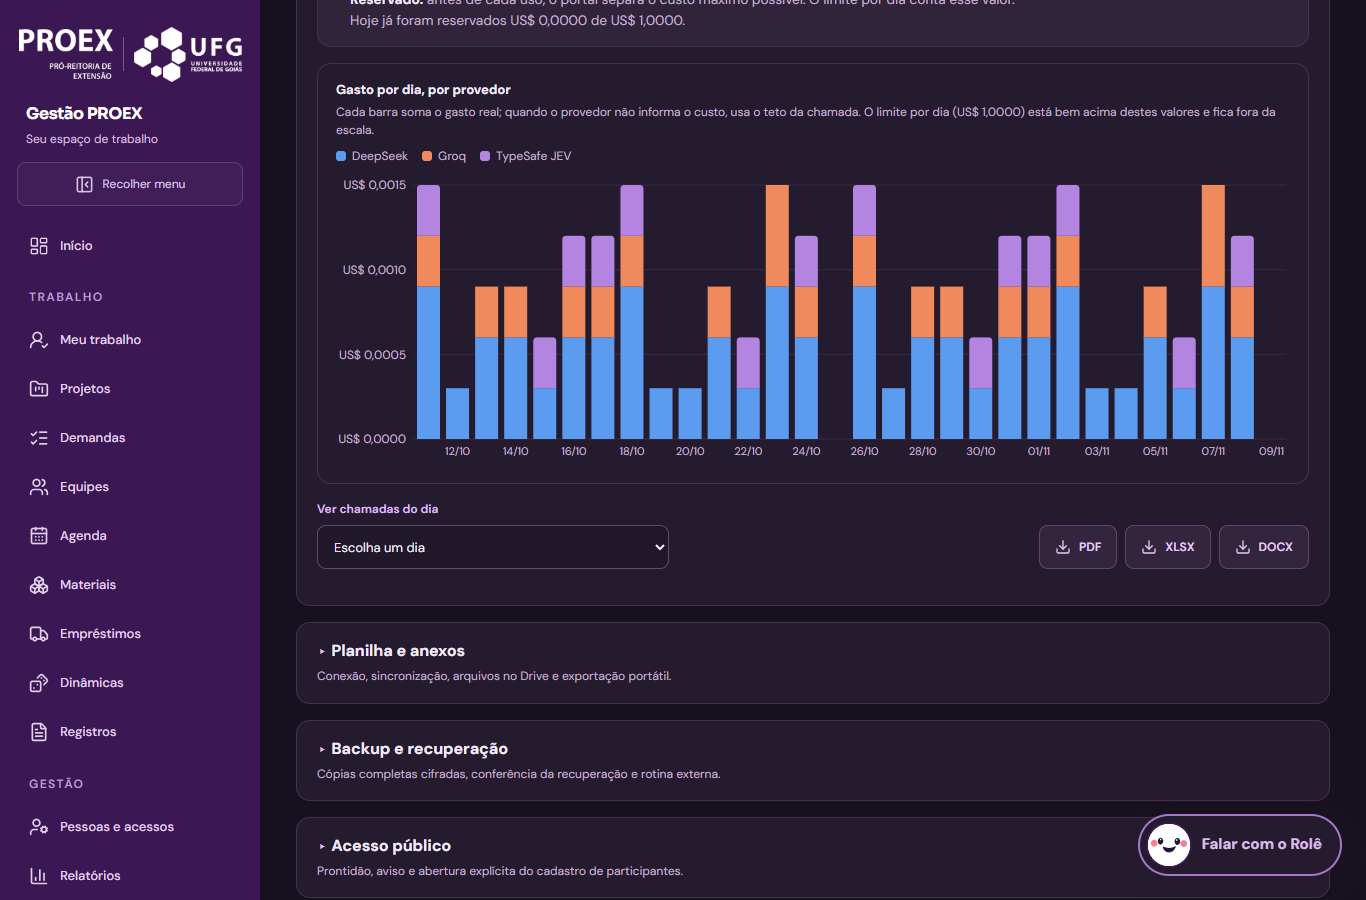
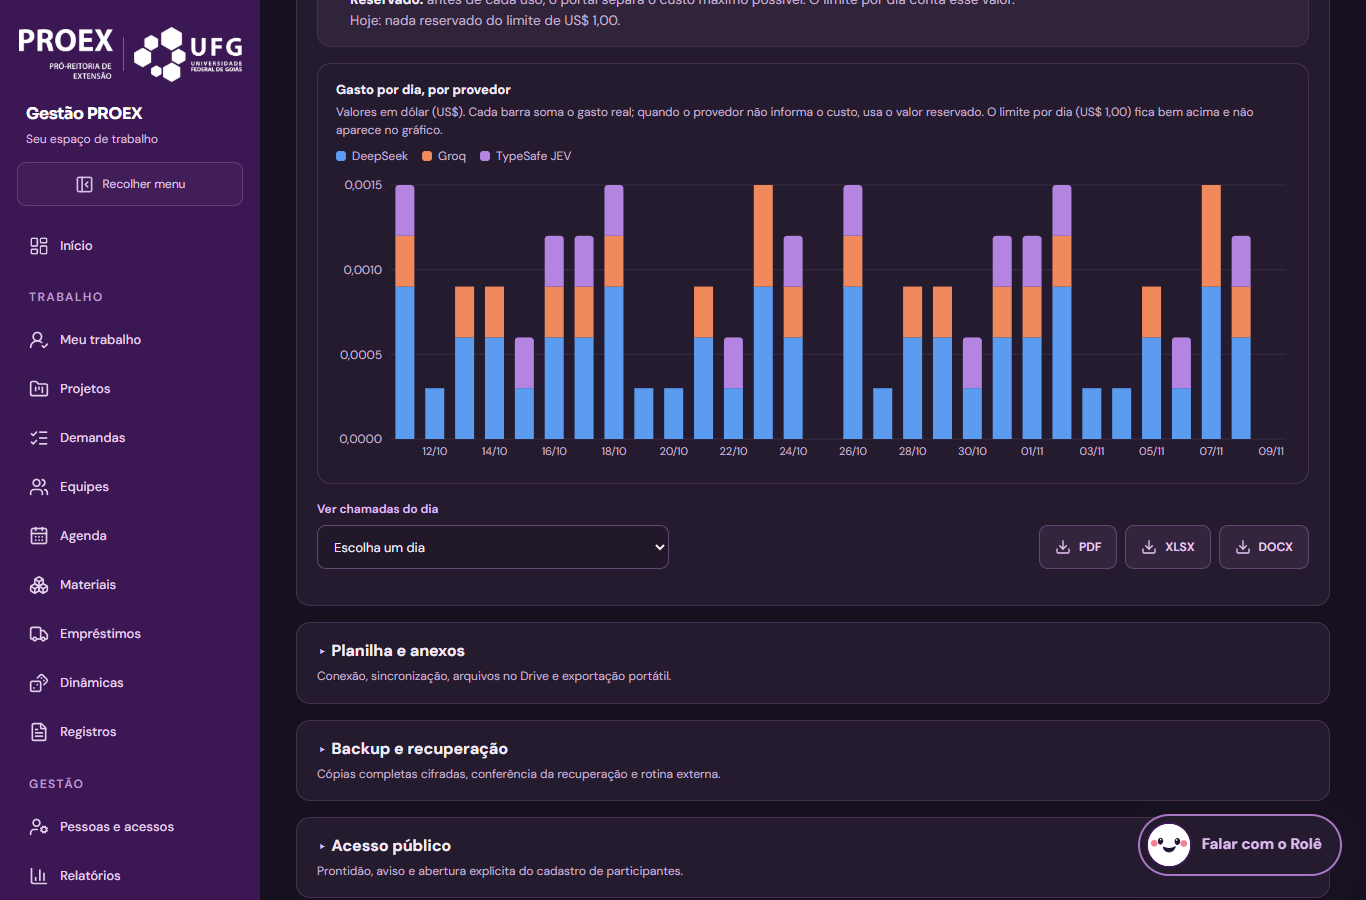
fix(portal): readable spending chart on phones and final copy

diff --git a/apps/proex-portal/components/portal/ai-spending-panel.tsx b/apps/proex-portal/components/portal/ai-spending-panel.tsx
@@ -180,7 +180,7 @@ export default function AiSpendingPanel({ organizationId }: { organizationId: st
 
     {data && <>
       <dl className={styles.metrics}>
-        <div><dt>Gasto real hoje</dt><dd><Money micros={data.today.realUsdMicros} zero="Nada gasto hoje"/></dd></div>
+        <div><dt>Gasto real hoje</dt><dd><Money micros={data.today.realUsdMicros} zero="Nada gasto"/></dd></div>
         <div><dt>Limite por dia</dt><dd>{usd2.format(data.dailyLimitUsdMicros / 1_000_000)}</dd></div>
         <div><dt>Gasto real no período</dt><dd><Money micros={data.totals.realUsdMicros} zero="Nada gasto"/></dd></div>
         <div><dt>Reservado no período (máximo possível)</dt><dd><Money micros={data.totals.reservedUsdMicros} zero="Nada reservado"/></dd></div>
@@ -188,7 +188,7 @@ export default function AiSpendingPanel({ organizationId }: { organizationId: st
       <ul className={styles.glossary}>
         <li><strong>Gasto real:</strong> o custo que o provedor informou. Algumas funções ainda não informam o custo.</li>
         <li><strong>Reservado:</strong> antes de cada uso, o portal separa o custo máximo possível. O limite por dia conta esse valor.</li>
-        <li>Hoje já foram reservados {formatUsdMicros(data.today.reservedUsdMicros)} de {formatUsdMicros(data.dailyLimitUsdMicros)}.</li>
+        <li>{data.today.reservedUsdMicros ? `Hoje: ${data.today.reservedUsdMicros < 10_000 ? 'menos de US$ 0,01' : usd2.format(data.today.reservedUsdMicros / 1_000_000)} reservados do limite de ${usd2.format(data.dailyLimitUsdMicros / 1_000_000)}.` : `Hoje: nada reservado do limite de ${usd2.format(data.dailyLimitUsdMicros / 1_000_000)}.`}</li>
       </ul>
       {data.partial && <p className={styles.warning} role="note">Há chamadas demais neste período; os números mostram só uma parte. Escolha um período menor.</p>}
 
@@ -196,17 +196,17 @@ export default function AiSpendingPanel({ organizationId }: { organizationId: st
         <figure className={styles.chart}>
           <figcaption>
             <strong>Gasto por dia, {view === 'provider' ? 'por provedor' : 'por função'}</strong>
-            <small>Cada barra soma o gasto real; quando o provedor não informa o custo, usa o teto da chamada. {showLimit ? 'A linha tracejada é o limite por dia.' : `O limite por dia (${usd2.format(data.dailyLimitUsdMicros / 1_000_000)}) está bem acima destes valores e fica fora da escala.`}</small>
+            <small>Valores em dólar (US$). Cada barra soma o gasto real; quando o provedor não informa o custo, usa o valor reservado. {showLimit ? 'A linha tracejada é o limite por dia.' : `O limite por dia (${usd2.format(data.dailyLimitUsdMicros / 1_000_000)}) fica bem acima e não aparece no gráfico.`}</small>
           </figcaption>
           <ul className={styles.legend} aria-label="Legenda">
             {usedKeys.map(key => <li key={key}><i style={{ background: `var(--as-${keys.indexOf(key) + 1})` }} />{names[key] ?? key}</li>)}
           </ul>
           <div className={styles.chartArea} role="img" aria-label={`Gráfico de barras com o gasto de ${data.days.length} dias. Use a lista abaixo para abrir as chamadas de um dia.`}>
             <ResponsiveContainer width="100%" height="100%">
-              <BarChart data={chart} margin={{ top: 12, right: 8, bottom: 4, left: 4 }} barCategoryGap={period === 90 ? 1 : 3}>
+              <BarChart data={chart} margin={{ top: 12, right: 8, bottom: 4, left: 4 }} barCategoryGap={period === 90 ? '8%' : '18%'}>
                 <CartesianGrid vertical={false} stroke="var(--as-grid)" />
                 <XAxis dataKey="day" tickFormatter={shortDay} tick={{ fill: 'var(--as-axis)', fontSize: 11 }} axisLine={false} tickLine={false} minTickGap={14} />
-                <YAxis width={78} tick={{ fill: 'var(--as-axis)', fontSize: 12 }} axisLine={false} tickLine={false} ticks={axis.ticks} domain={[0, axis.ticks[axis.ticks.length - 1]]} tickFormatter={(value: number) => new Intl.NumberFormat('pt-BR', { style: 'currency', currency: 'USD', minimumFractionDigits: axis.digits, maximumFractionDigits: axis.digits }).format(value)} />
+                <YAxis width={54} tick={{ fill: 'var(--as-axis)', fontSize: 12 }} axisLine={false} tickLine={false} ticks={axis.ticks} domain={[0, axis.ticks[axis.ticks.length - 1]]} tickFormatter={(value: number) => value.toLocaleString('pt-BR', { minimumFractionDigits: axis.digits, maximumFractionDigits: axis.digits })} />
                 <Tooltip cursor={{ fill: 'var(--as-hover)' }} content={<SpendingTooltip rows={rowsByDay} names={names} />} />
                 {showLimit && <ReferenceLine y={limit} stroke="var(--as-limit)" strokeDasharray="6 4" strokeWidth={1.5} ifOverflow="extendDomain" label={{ value: 'Limite por dia', position: 'insideTopRight', fill: 'var(--as-limit)', fontSize: 11 }} />}
                 {usedKeys.map((key, index) => <Bar key={key} dataKey={key} name={names[key] ?? key} stackId="spent" fill={`var(--as-${keys.indexOf(key) + 1})`} maxBarSize={36} cursor="pointer"

diff --git a/apps/proex-portal/components/portal/model-catalog-panel.tsx b/apps/proex-portal/components/portal/model-catalog-panel.tsx
@@ -88,7 +88,7 @@ export default function ModelCatalogPanel({ organizationId }: { organizationId: 
       <div className={styles.filters} role="group" aria-label="Mostrar modelos de">{FILTERS.map(option => <button key={option.key} type="button" aria-pressed={filter === option.key} onClick={() => setFilter(option.key)}>{option.label}</button>)}</div>
       <p className={styles.muted}>{FILTERS.find(option => option.key === filter)?.hint}</p>
       {(() => { const list = view.catalog.models.filter(model => filter === 'all' || model.capabilities.includes(filter)); return list.length ? <ul className={styles.models}>{list.map(model => { const provider = providers.get(model.providerId); return <li key={model.id} className={styles.model}>
-        <div className={styles.modelTop}><strong>{model.label}{model.testOnly ? ' · somente teste' : ''}</strong><span className={provider?.hasKey ? styles.ok : styles.warn}>{provider?.hasKey ? 'Chave pronta' : 'Falta chave'}</span></div>
+        <div className={styles.modelTop}><strong>{model.label}{model.testOnly ? ' · somente teste' : ''}</strong><span className={provider?.hasKey ? styles.ok : styles.warn}>{provider?.hasKey ? 'Chave pronta' : 'Sem chave'}</span></div>
         <p className={styles.muted}>{provider?.label ?? 'Provedor removido'} · <code>{model.model}</code></p>
         <p className={styles.chips}>{model.capabilities.map(capability => <span key={capability}>{CAPABILITY_LABELS[capability]}</span>)}</p>
         <p>{priceLine(model)}{model.score ? ` · nota ${model.score.value} (${model.score.source}, ${model.score.readAt.split('-').reverse().join('/')})` : ''}</p>
@@ -158,8 +158,8 @@ export default function ModelCatalogPanel({ organizationId }: { organizationId: 
       <label className="p-field"><span>Pergunta</span><textarea rows={3} maxLength={2000} value={prompt} onChange={event => setPrompt(event.target.value)}/></label>
       {compareIds.length < 2 ? <p>Escolha 2 ou 3 modelos para ver o custo máximo.</p> : <p><strong>Custo máximo: {friendlyMicros(compareCost)}</strong> para {compareIds.length} modelos.</p>}
       <label className={styles.check}><input type="checkbox" checked={compareConsent} onChange={event => setCompareConsent(event.target.checked)}/>Autorizo enviar esta pergunta aos provedores escolhidos. Não há dados pessoais nela.</label>
+      {!busy && (compareIds.length < 2 || !compareConsent || !prompt.trim()) && <p className={styles.muted}>Para comparar: {(items => items.length > 1 ? `${items.slice(0, -1).join(', ')} e ${items.at(-1)}` : items[0])([compareIds.length < 2 ? 'escolha 2 modelos' : '', !prompt.trim() ? 'escreva a pergunta' : '', !compareConsent ? 'marque a autorização' : ''].filter(Boolean))}.</p>}
       <button type="button" className={`p-button p-button-primary ${styles.compareButton}`} disabled={busy || compareIds.length < 2 || !compareConsent || !prompt.trim()} onClick={() => void compare()}>{busy ? 'Comparando…' : 'Comparar agora'}</button>
-      {!busy && (compareIds.length < 2 || !compareConsent || !prompt.trim()) && <p className={styles.muted}>Para comparar: {[compareIds.length < 2 ? 'escolha 2 modelos' : '', !prompt.trim() ? 'escreva a pergunta' : '', !compareConsent ? 'marque a autorização' : ''].filter(Boolean).join(', ')}.</p>}
       {results && <div className={styles.results}>{results.map(row => <article key={row.modelId} className={styles.result}>
         <h5>{row.label}</h5><p className={styles.muted}>{row.provider} · {(row.ms / 1000).toLocaleString('pt-BR', { maximumFractionDigits: 1 })} s · custou {friendlyMicros(row.usdMicros)}</p>
         {row.error ? <p role="alert" className="p-inline-error">{row.error}</p> : <pre className={styles.answer}>{row.text}</pre>}

diff --git a/apps/proex-portal/components/portal/credential-vault-panel.module.css b/apps/proex-portal/components/portal/credential-vault-panel.module.css
@@ -81,3 +81,4 @@
 .keyGroup .p-form-help{margin:0}
 .entryTop :global(.p-badge.p-status-active){color:var(--success-ink);background:color-mix(in srgb,var(--success-ink) 12%,transparent)}
 @container (max-width:520px){.views{display:grid;grid-template-columns:repeat(2,minmax(0,1fr))}.views>:last-child:nth-child(odd){grid-column:1/-1}.heading :global(.p-icon-tile){display:none}}
+.recommended{align-self:flex-start}

diff --git a/apps/proex-portal/components/portal/model-catalog-panel.module.css b/apps/proex-portal/components/portal/model-catalog-panel.module.css
@@ -45,3 +45,5 @@
 .compareButton:disabled{opacity:.6;color:#fff}
 @container (max-width:520px){.heading{flex-wrap:wrap}.heading :global(.p-icon-tile){display:none}.headAdd{margin-left:0;width:100%;justify-content:center}}
 .model>.actions{margin-top:auto}
+.compareButton{justify-self:start}
+:global(html[data-theme=dark]) .compareButton:disabled{color:#fff;opacity:.6}

diff --git a/apps/proex-portal/components/portal/ai-spending-panel.module.css b/apps/proex-portal/components/portal/ai-spending-panel.module.css
@@ -88,3 +88,5 @@
 .exact{display:block;font-size:max(12px,.72rem);font-weight:500;color:var(--text-secondary)}
 .controlGroup{display:grid;gap:.3rem}
 .controlLabel{font-size:max(12px,.78rem);font-weight:650;color:var(--text-secondary)}
+.segmented{display:grid;grid-auto-flow:column;grid-auto-columns:1fr;gap:.5rem}
+.segmented button{white-space:nowrap}
